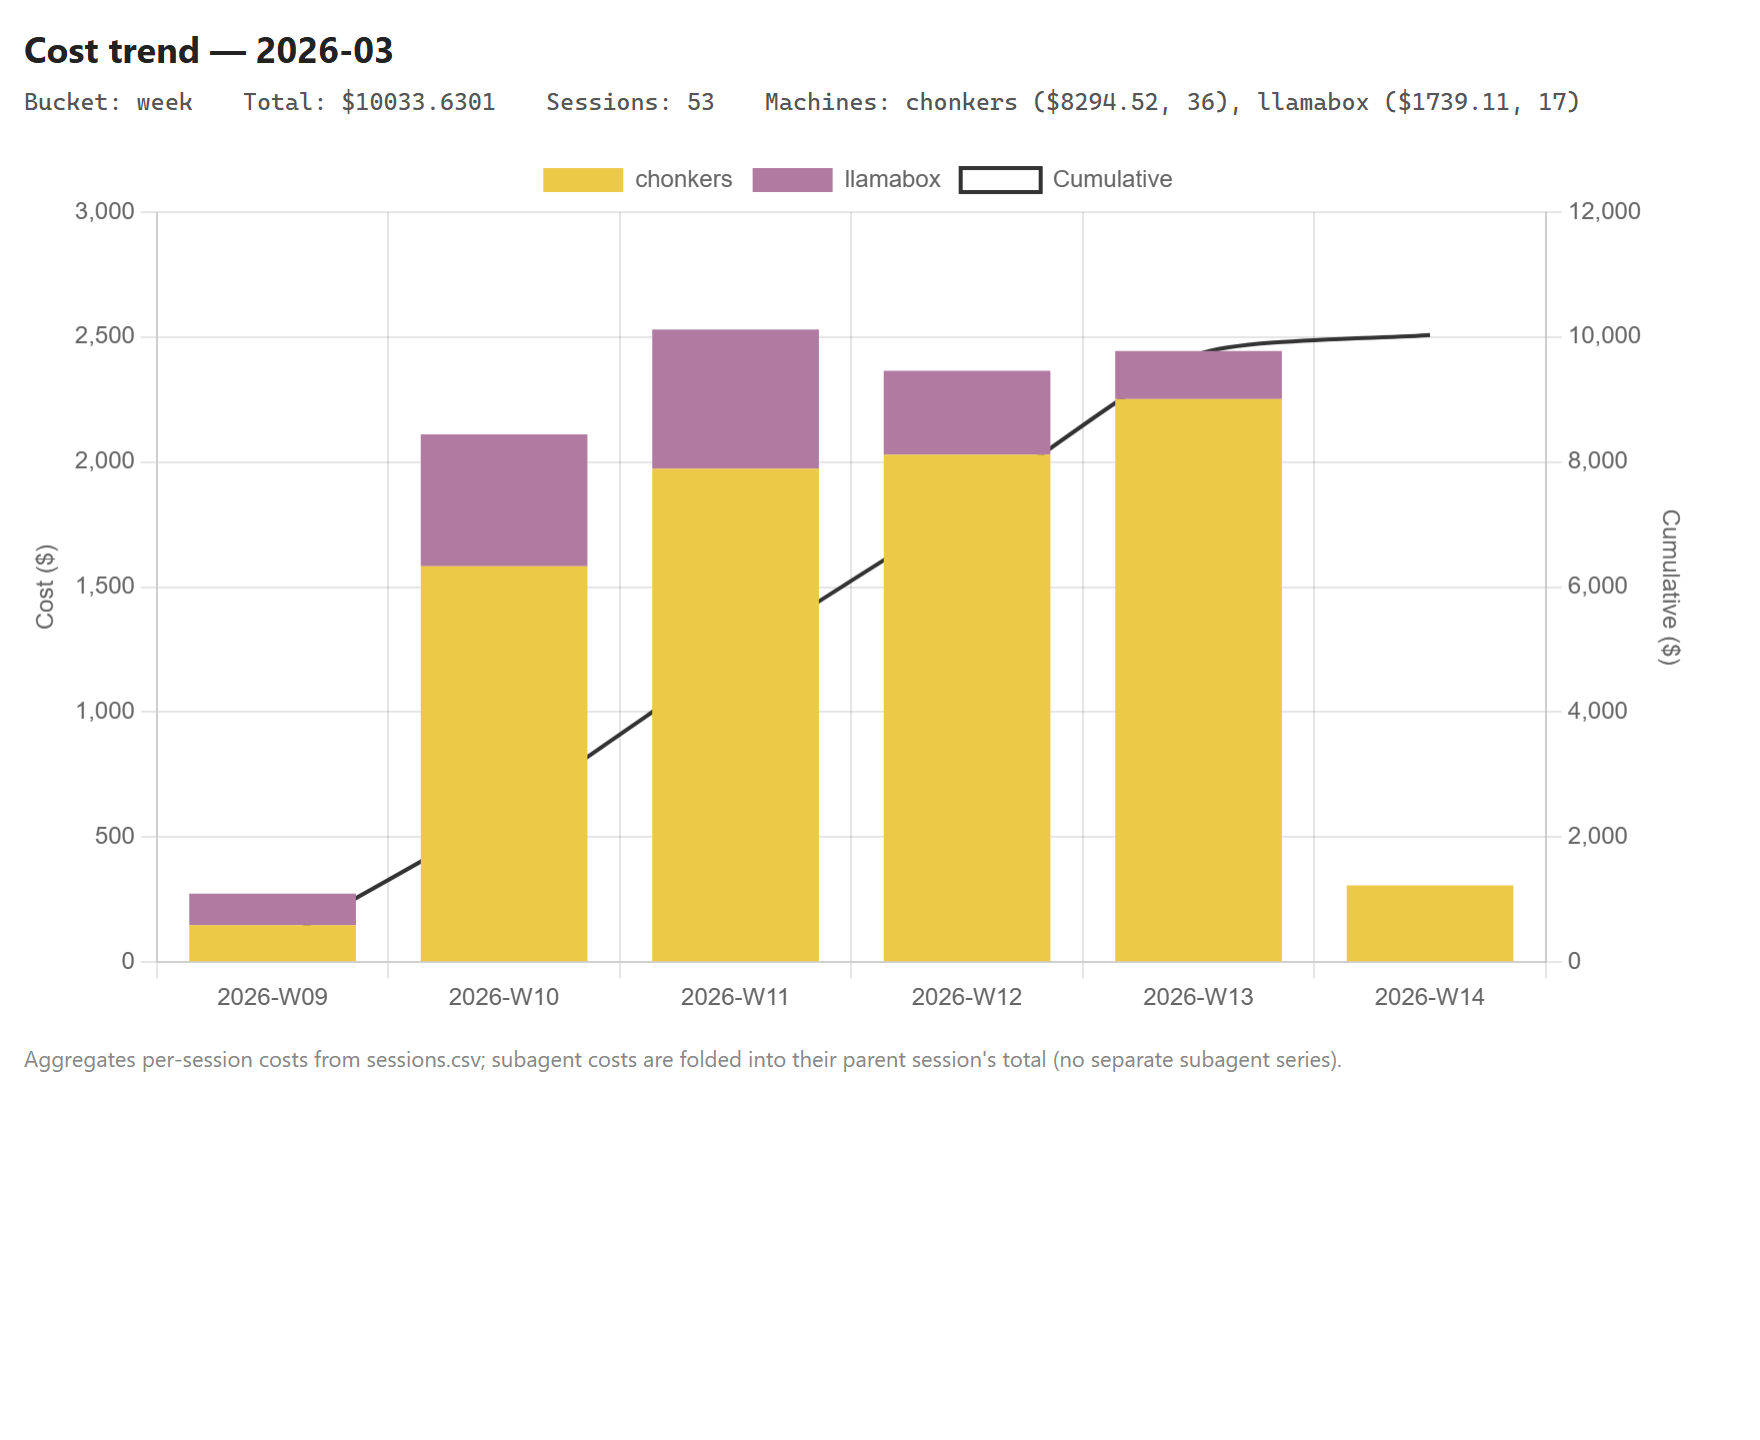
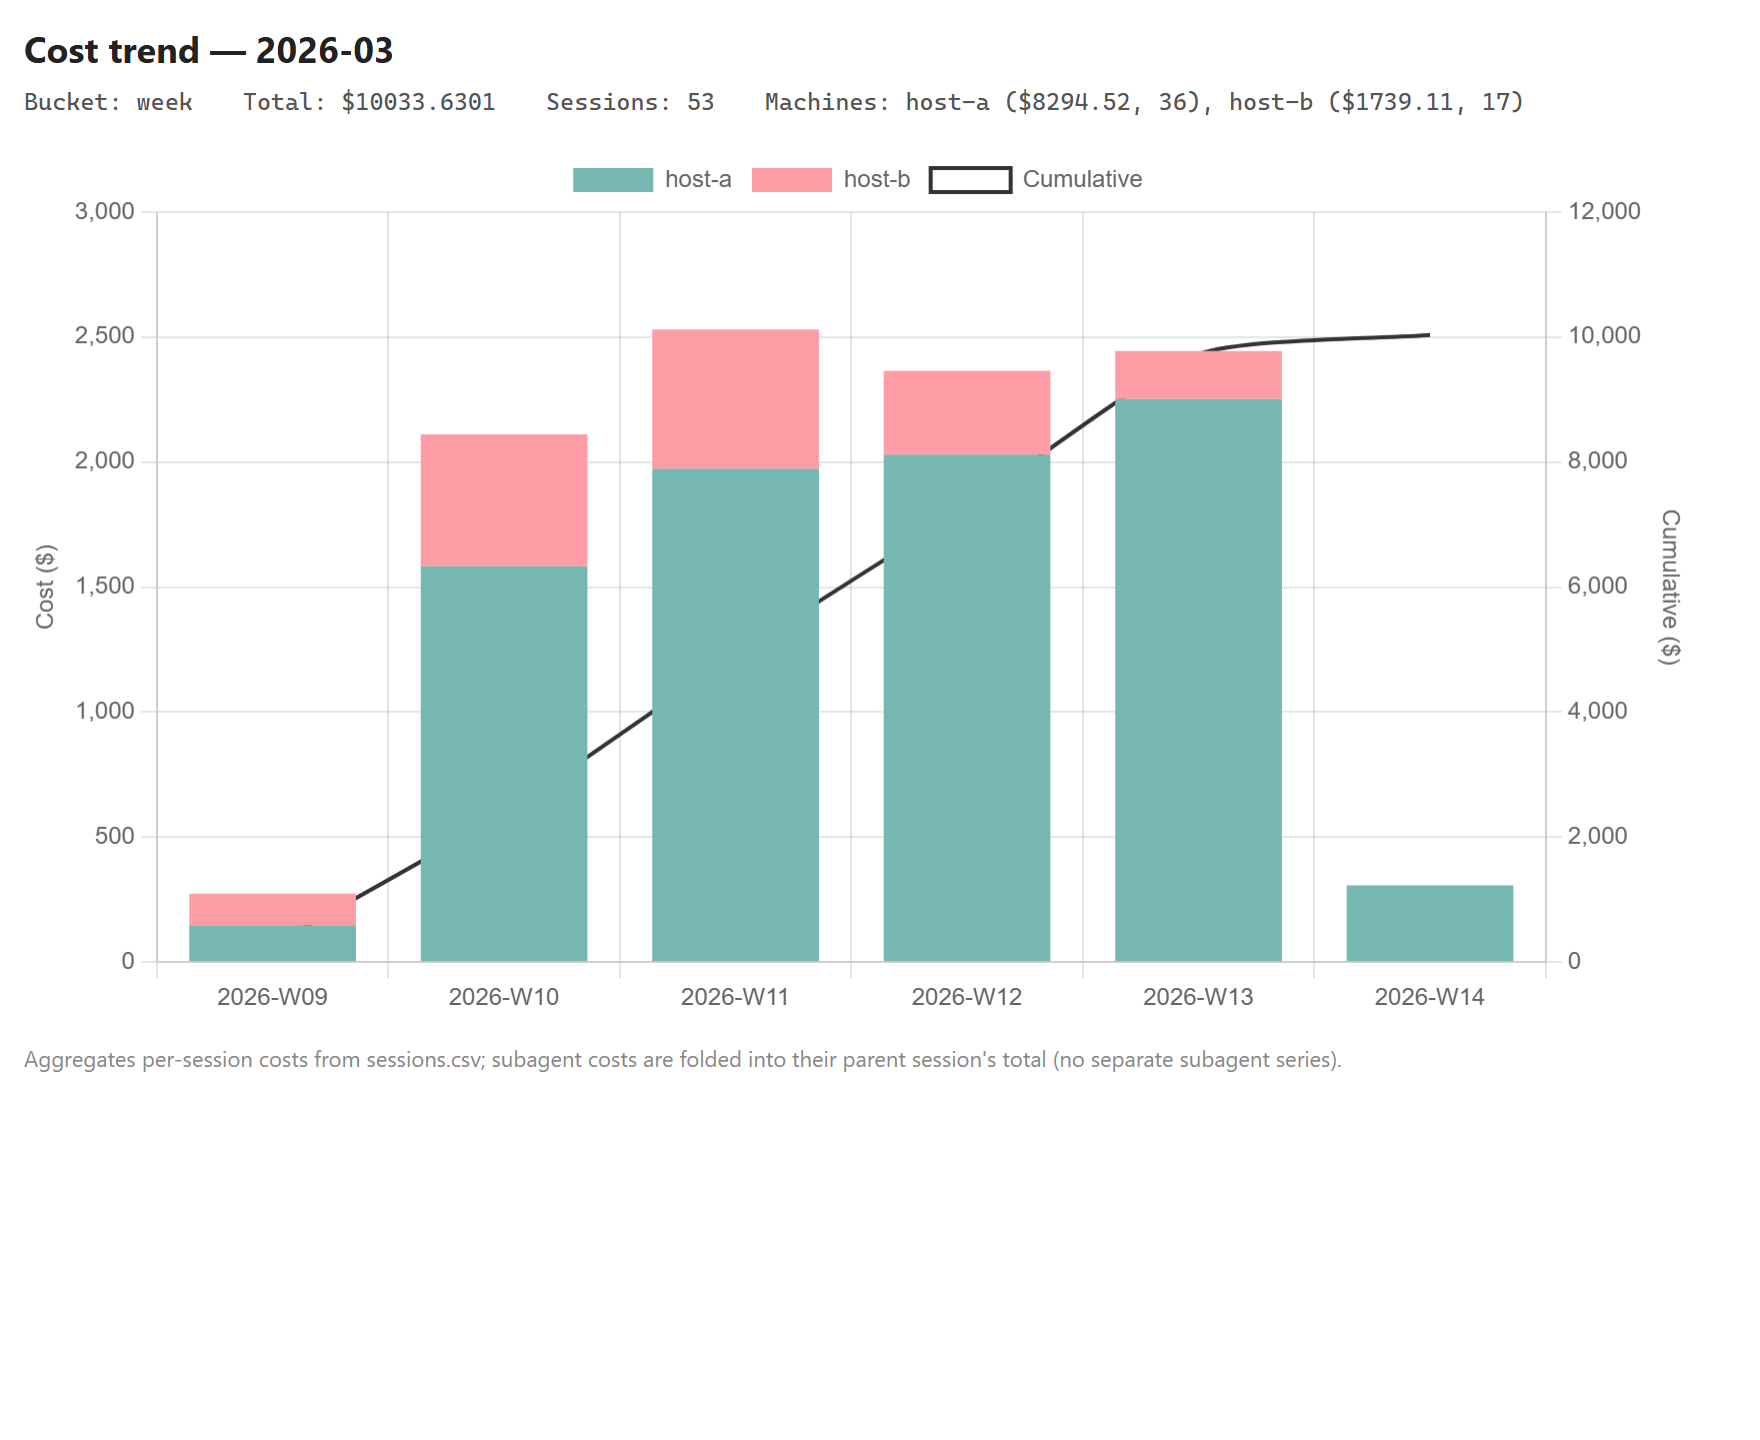
docs: replace chonkers/llamabox with generic host-a/host-b
The synthetic fixture, README example, and resolve_roots test were
seeded with the user's real machine names. Swaps both to host-a /
host-b across the fixture CSV, README's CLAUDE_COST_ROOTS example,
test_resolve_roots.py inputs, and the in-tree plan file. Regenerates
screenshot-trend.png with the new legend labels (compare PNG is
bit-identical since its bars are current-vs-prior, not per-host).

diff --git a/scripts/test_resolve_roots.py b/scripts/test_resolve_roots.py
@@ -24,7 +24,7 @@ def test_cli_roots_override_env(monkeypatch_env=None):
     pairs = am._resolve_roots(
         cli_roots=["/some/cli/path"],
         cli_labels=["host-a"],
-        env_value="chonkers:/x,llamabox:/y",
+        env_value="host-a:/x,host-b:/y",
     )
     assert pairs == [("host-a", Path("/some/cli/path"))]
 
@@ -34,9 +34,9 @@ def test_env_used_when_no_cli():
     pairs = am._resolve_roots(
         cli_roots=[],
         cli_labels=[],
-        env_value="chonkers:/x,llamabox:/y",
+        env_value="host-a:/x,host-b:/y",
     )
-    assert pairs == [("chonkers", Path("/x")), ("llamabox", Path("/y"))]
+    assert pairs == [("host-a", Path("/x")), ("host-b", Path("/y"))]
 
 
 def test_default_when_no_cli_no_env():
@@ -52,9 +52,9 @@ def test_windows_drive_letter_in_env_path():
     am = _load_module()
     pairs = am._resolve_roots(
         cli_roots=[], cli_labels=[],
-        env_value="chonkers:C:/Users/mtsch/.claude/projects",
+        env_value="host-a:C:/Users/mtsch/.claude/projects",
     )
-    assert pairs == [("chonkers", Path("C:/Users/mtsch/.claude/projects"))]
+    assert pairs == [("host-a", Path("C:/Users/mtsch/.claude/projects"))]
 
 
 def test_env_malformed_raises():

diff --git a/docs/superpowers/plans/2026-05-11-screenshot-automation.md b/docs/superpowers/plans/2026-05-11-screenshot-automation.md
@@ -232,7 +232,7 @@ Write `/tmp/gen_demo_fixture.py`:
 """One-off generator for tests/fixtures/sessions-demo.csv.
 
 Seeded random; output is deterministic. Covers Feb + March 2026 across
-two synthetic hosts, with chonkers carrying the bulk of spend.
+two synthetic hosts, with host-a carrying the bulk of spend.
 """
 import csv
 import random
@@ -256,8 +256,8 @@ EMPTY_COLS = [c for c in HEADER if c not in {
 
 HOSTS = [
     # (label, sessions/day distribution, cost-scale multiplier)
-    ("chonkers", [0.20, 0.45, 0.25, 0.10], 1.5),
-    ("llamabox", [0.55, 0.35, 0.10, 0.00], 0.7),
+    ("host-a", [0.20, 0.45, 0.25, 0.10], 1.5),
+    ("host-b", [0.55, 0.35, 0.10, 0.00], 0.7),
 ]
 
 day_start = datetime(2026, 2, 1, 12, 0, 0, tzinfo=timezone.utc)
@@ -351,7 +351,7 @@ git commit -m "$(cat <<'EOF'
 fixtures: synthetic sessions data for demo screenshots
 
 Seeded-random hand-curated dataset covering Feb + March 2026 across
-two synthetic hosts (chonkers/llamabox). Drives plot-trend and
+two synthetic hosts (host-a/host-b). Drives plot-trend and
 plot-compare for README screenshot regeneration without snapshotting
 real spend.
 
@@ -444,7 +444,7 @@ Expected: both files >50KB, both 1760×1440.
 - [x] **Step 5: Visually inspect both PNGs**
 
 Open in an image viewer. Confirm:
-- `screenshot-trend.png` shows daily bars for March 2026 with chonkers/llamabox stack and cumulative line
+- `screenshot-trend.png` shows daily bars for March 2026 with host-a/host-b stack and cumulative line
 - `screenshot-compare.png` shows March vs February grouped bars + twin cumulative lines
 
 If either is blank canvas: bump budget. Edit `scripts/regen-screenshots.sh` to pass `--budget-ms 10000` to each `capture-screenshot.py` call.
@@ -565,7 +565,7 @@ In `cost-estimator/README.md`, after the existing block:
 Stacked bars show per-machine cost in each bucket (day / week / month,
 auto-picked from range length or set with `--bucket`). The right-axis
 line is the cumulative total. Multi-machine setups can pre-set
-`CLAUDE_COST_ROOTS="chonkers:C:/Users/you/.claude/projects,llamabox:Y:/.claude/projects"`
+`CLAUDE_COST_ROOTS="host-a:C:/Users/you/.claude/projects,host-b:Y:/.claude/projects"`
 so `analyze-month.py` picks up every root without repeating CLI args.
 ```
 

diff --git a/README.md b/README.md
@@ -45,7 +45,7 @@ python scripts/plot-trend.py --month 2026-04 --open
 Stacked bars show per-machine cost in each bucket (day / week / month,
 auto-picked from range length or set with `--bucket`). The right-axis
 line is the cumulative total. Multi-machine setups can pre-set
-`CLAUDE_COST_ROOTS="chonkers:C:/Users/you/.claude/projects,llamabox:Y:/.claude/projects"`
+`CLAUDE_COST_ROOTS="host-a:C:/Users/you/.claude/projects,host-b:Y:/.claude/projects"`
 so `analyze-month.py` picks up every root without repeating CLI args.
 
 ![Aggregate cost trend across sessions](screenshot-trend.png)
